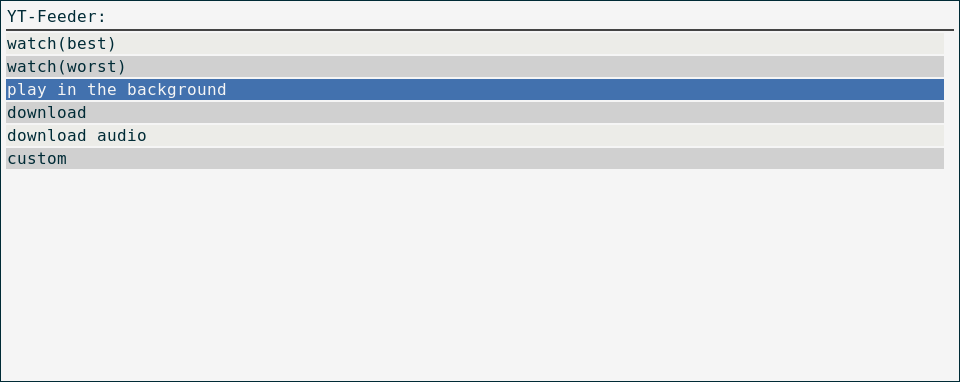
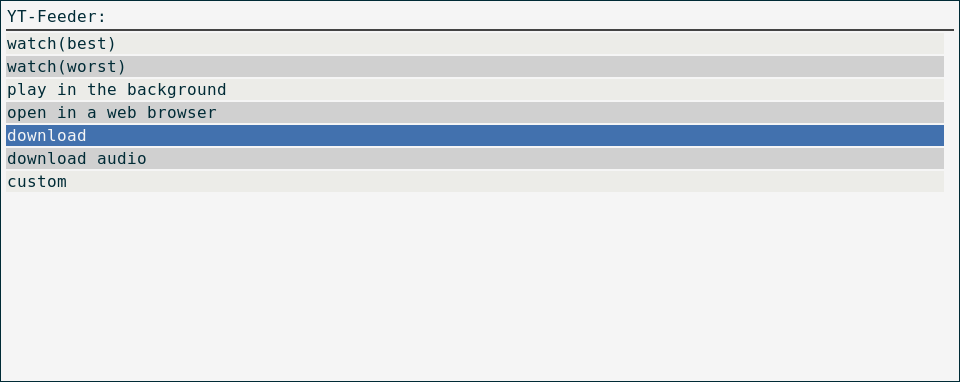
Add an ability to open link in a web browser

Changed region(s): [[0.0, 0.2016, 1.0, 0.4319], [0.0, 0.4607, 0.0938, 0.4895]]

diff --git a/README.md b/README.md
@@ -1,17 +1,15 @@
-- [Gallery](#org733a2cb)
-- [Introduction](#org7a82e93)
-- [Usage](#org6469f17)
-  - [Worth noting](#org1d040ca)
-- [Configuration](#org5bcc3bf)
-- [Requirements](#org0e6acd3)
-- [TODO](#org3685691)
+- [Gallery](#org78648ad)
+- [Introduction](#org00e636e)
+- [Usage](#org0da1983)
+  - [Worth noting](#orgd981a8f)
+- [Configuration](#org75cd539)
+- [Requirements](#org9295218)
+- [TODO](#org7beb9ed)
 
 
-<a id="org733a2cb"></a>
+<a id="org78648ad"></a>
 
 # Gallery
-
-**[YT-Feeder Example Video](https://youtu.be/V2Oi5kPDTj4 )**
 
 <p align="center">
   <img src="./src/yt-feeder-1.png" width="700">
@@ -19,14 +17,14 @@
   <img src="./src/yt-feeder-3.png" width="700">
 </p>
 
-<a id="org7a82e93"></a>
+<a id="org00e636e"></a>
 
 # Introduction
 
 YT-Feeder is a Rofi-Based RSS Reader made specifically for YouTube video platform. It&rsquo;s written purely in bash and allows user to watch or download new videos.
 
 
-<a id="org6469f17"></a>
+<a id="org0da1983"></a>
 
 # Usage
 
@@ -47,6 +45,7 @@ I highly suggest binding the above command to your keyboard shortcut of choice. 
 -   watch(best) -> watch it in the best quality
 -   watch(worst) -> watch it in the worst quality
 -   play in the background -> play audio from video in the background
+-   open in a web browser -> opens YouTube link in a default web browser
 -   download -> download video
 -   download audio -> download audio from video
 -   command -> use your custom command on video&rsquo;s link
@@ -54,14 +53,14 @@ I highly suggest binding the above command to your keyboard shortcut of choice. 
 There&rsquo;s also an option to refresh the RSS feeds at the top of the list and there might be an option to stop currently playing audio in the background(only after selecting &ldquo;play in the background&rdquo;).
 
 
-<a id="org1d040ca"></a>
+<a id="orgd981a8f"></a>
 
 ## Worth noting
 
 The default directory for downloaded videos is ~/Videos/ and the default directory for downloaded audio is ~/Music/.
 
 
-<a id="org5bcc3bf"></a>
+<a id="org75cd539"></a>
 
 # Configuration
 
@@ -84,7 +83,7 @@ Comments must be placed on separate lines, every line starting with &ldquo;//&rd
 -   `DOWNLOAD_AUDIO` specifies the custom directory where you wish to download your audio.
 
 
-<a id="org0e6acd3"></a>
+<a id="org9295218"></a>
 
 # Requirements
 
@@ -95,10 +94,11 @@ Currently only requirements are:
 -   rofi
 
 
-<a id="org3685691"></a>
+<a id="org7beb9ed"></a>
 
 # TODO
 
+-   [X] Add an ability to open link in the browser
 -   [X] Add information about the number of new videos
 -   [X] Auto-detect Channel&rsquo;s name from RSS Feed
 -   [X] Clean bash code
